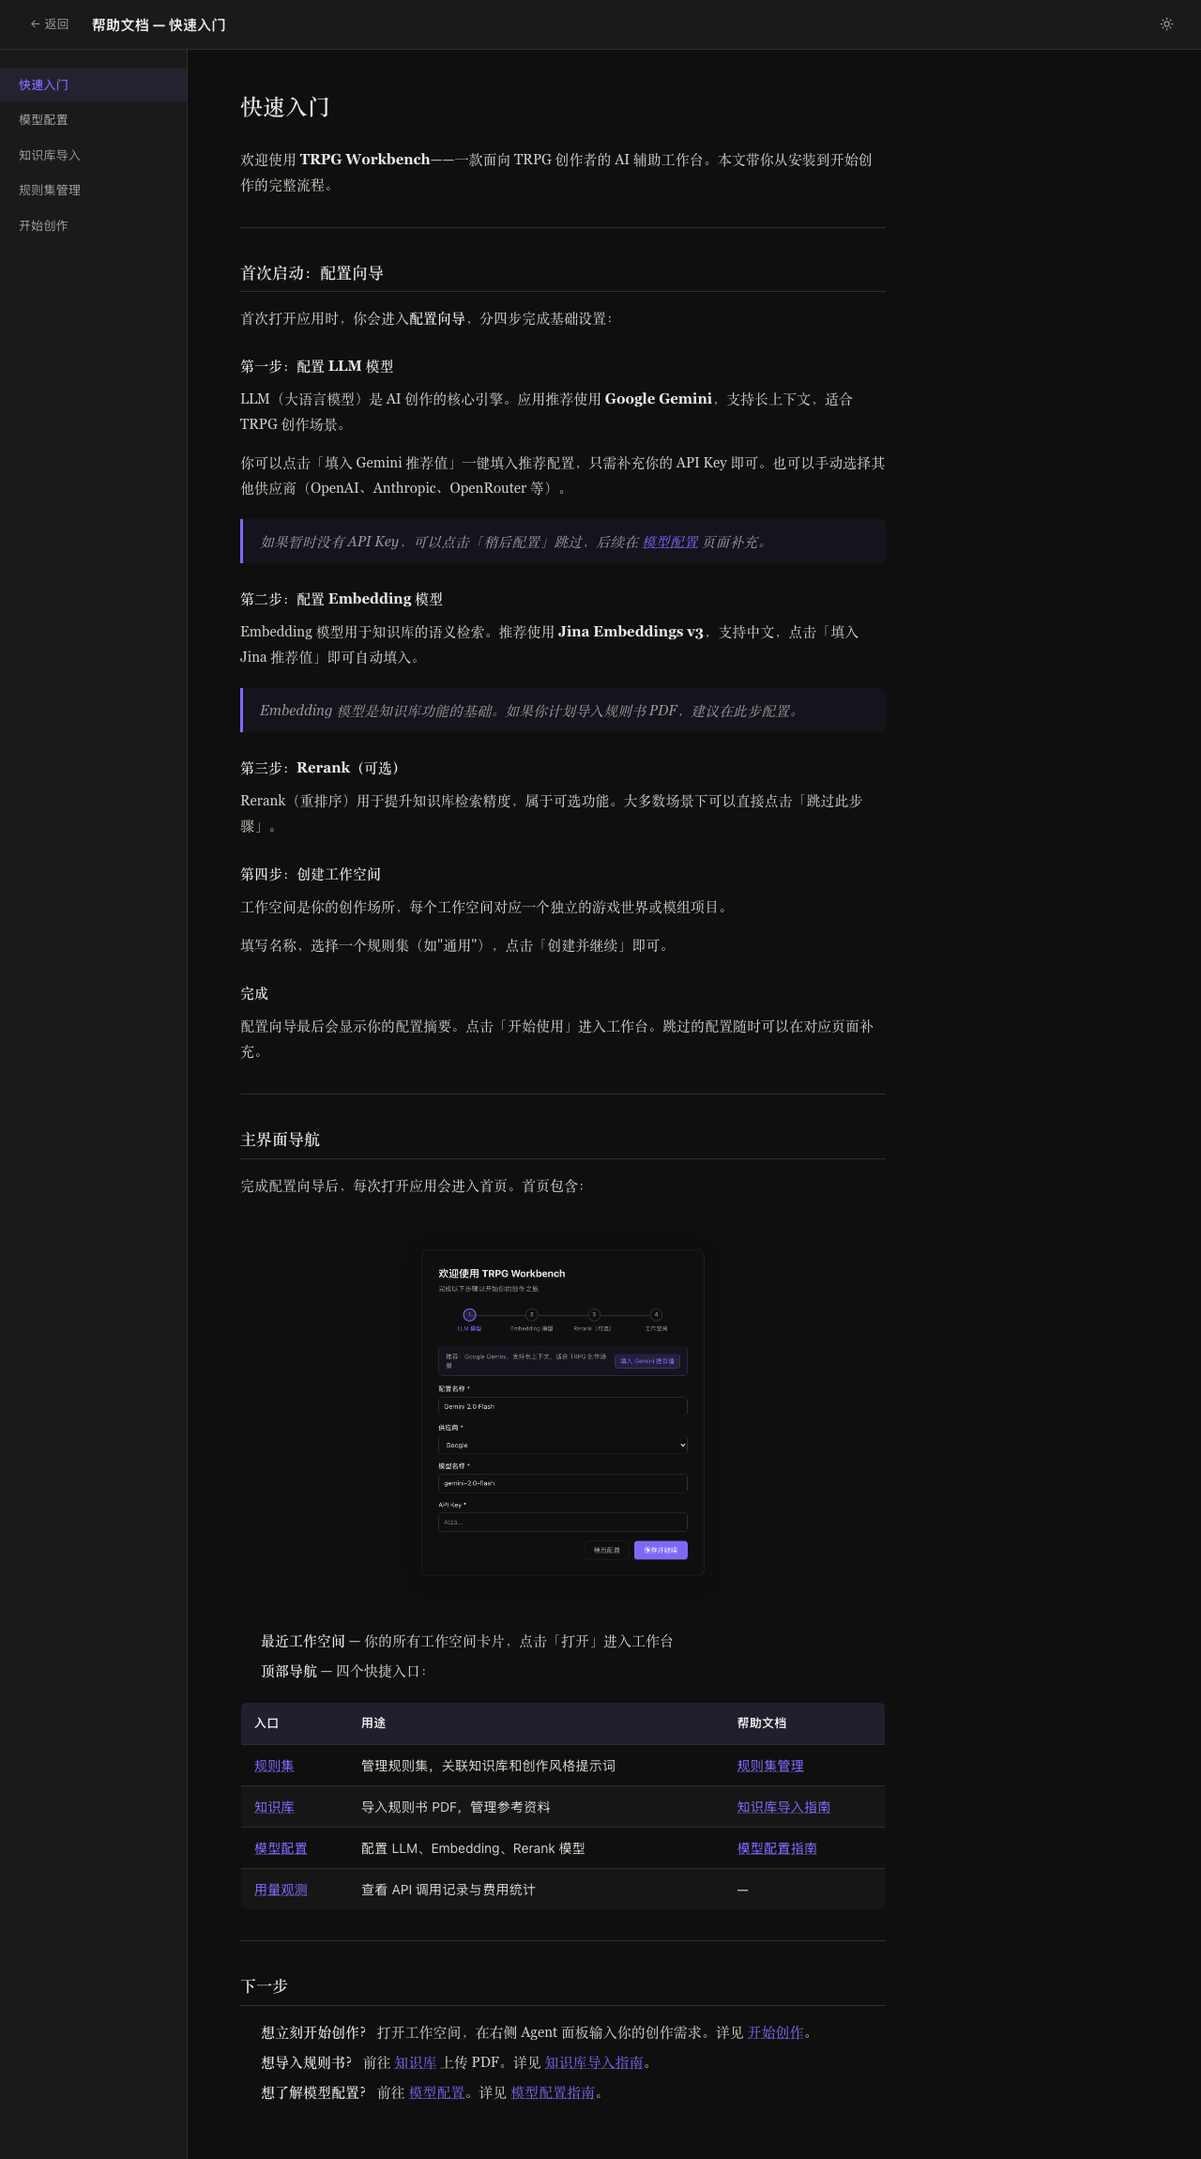
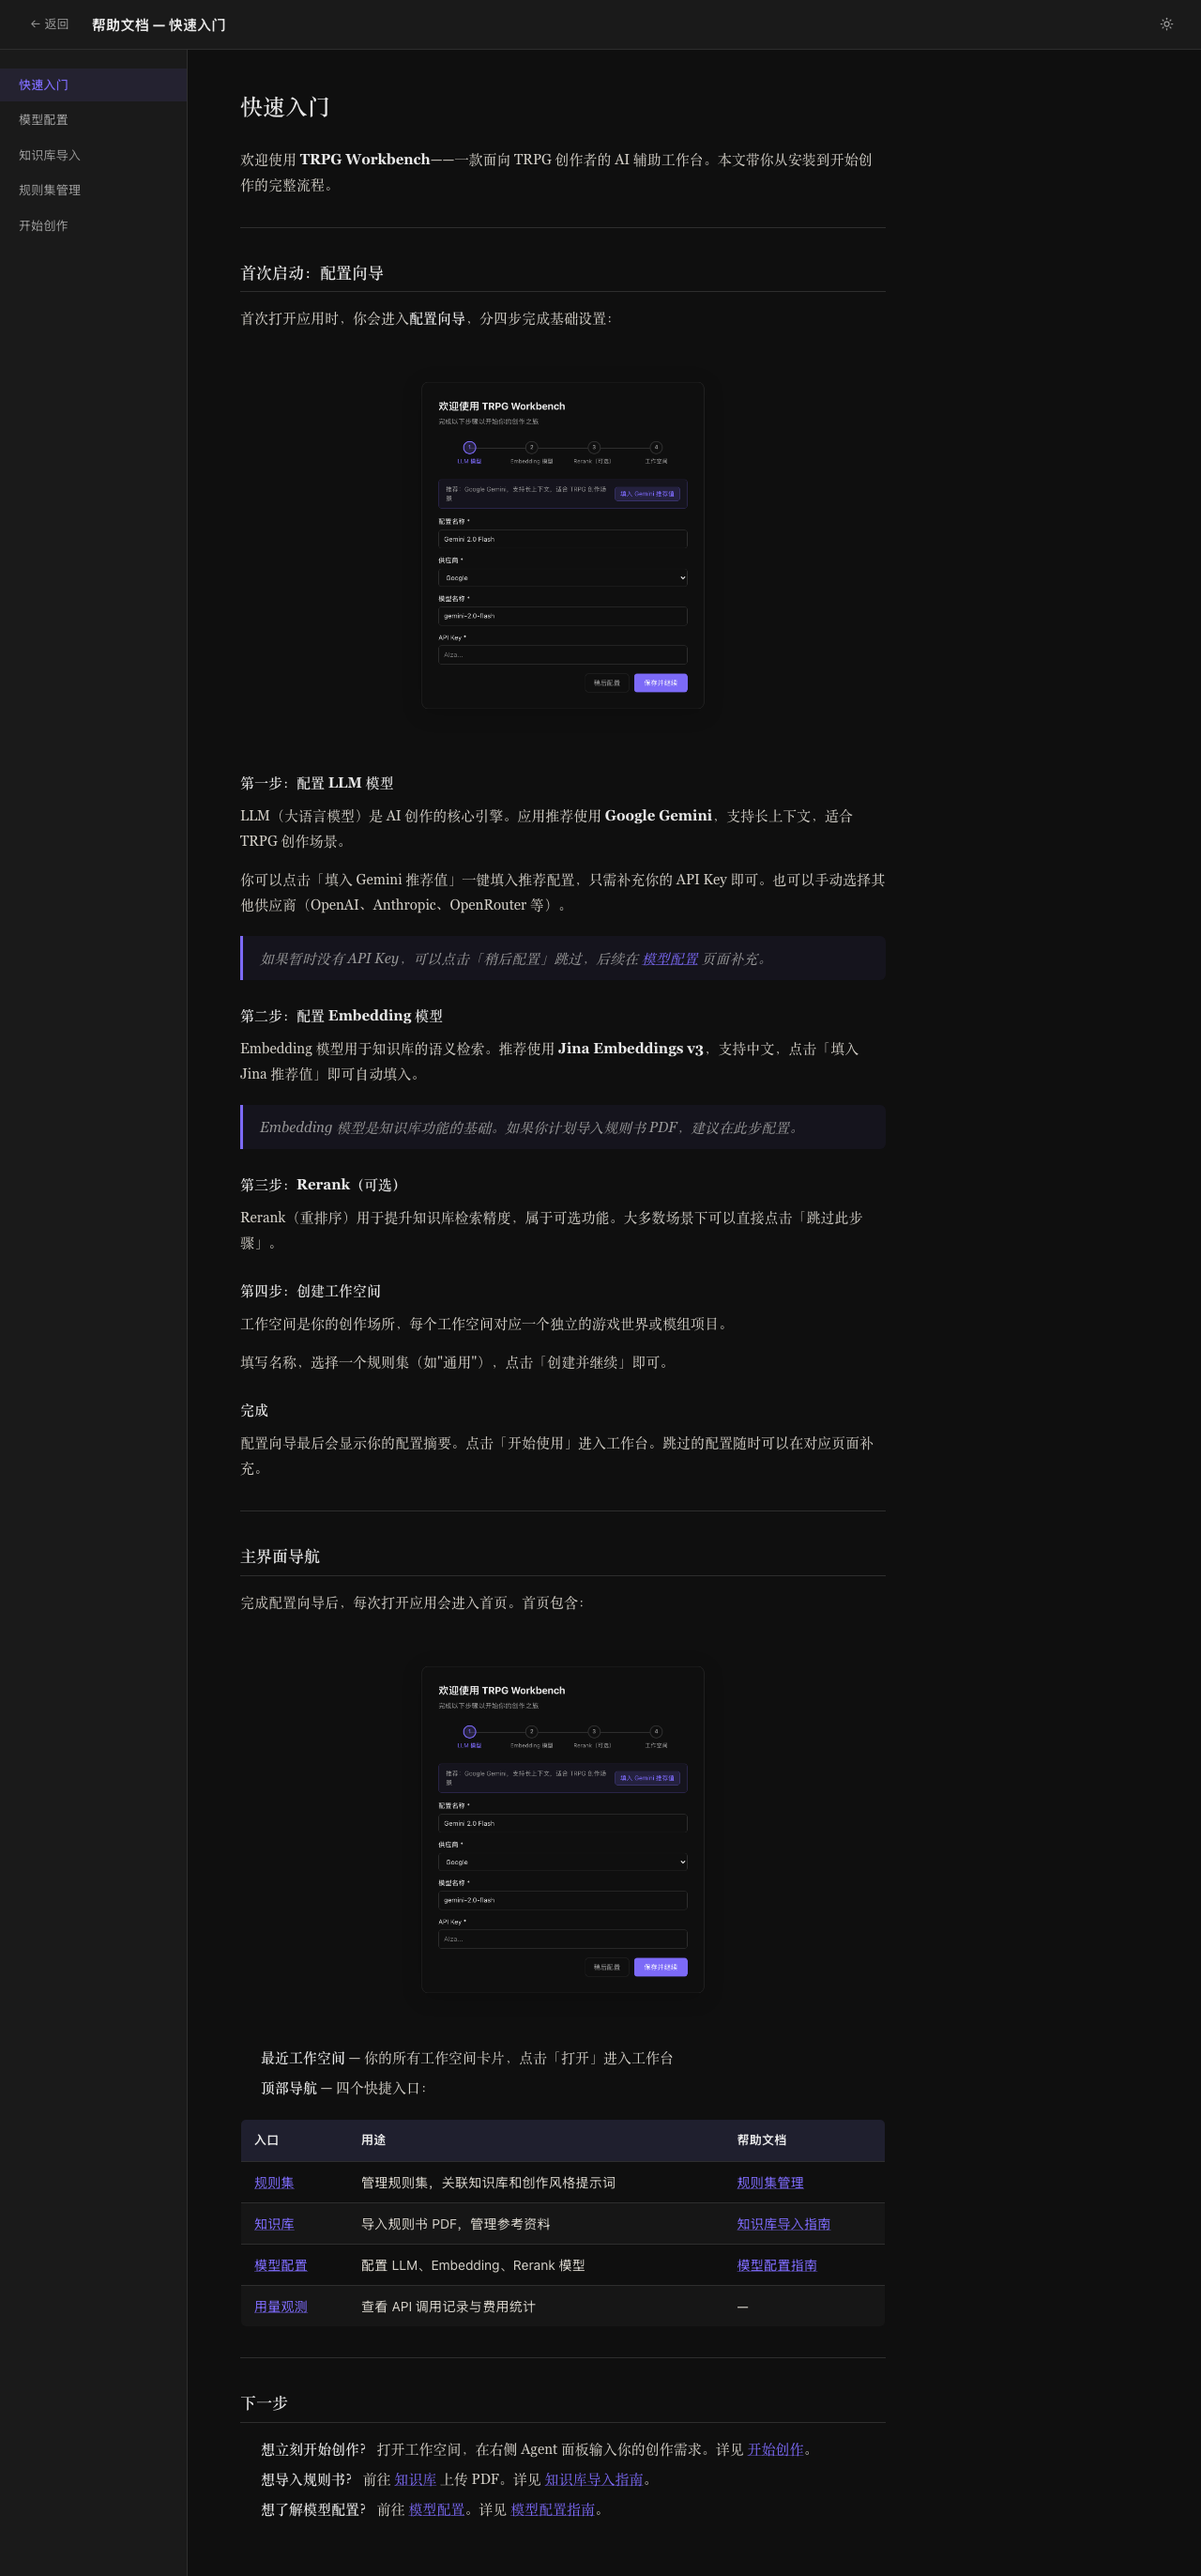
feat(M14): add --help-images mode to smoke script, refresh screenshots with correct home page, embed workspace screenshot

diff --git a/scripts/smoke/smoke_and_screenshot.py b/scripts/smoke/smoke_and_screenshot.py
@@ -1,27 +1,34 @@
 #!/usr/bin/env python3
 """
-smoke_and_screenshot.py — M9 A1 smoke test & screenshot script for trpg-workbench.
+smoke_and_screenshot.py — smoke test, screenshot & help-image generation for trpg-workbench.
 
 Usage (servers already running):
     apps/backend/.venv/bin/python scripts/smoke/smoke_and_screenshot.py
 
+Help-images mode (generate screenshots for in-app Help docs):
+    apps/backend/.venv/bin/python scripts/smoke/smoke_and_screenshot.py --help-images
+
 Usage (start servers via webapp-testing skill's with_server.py):
-    python <webapp-testing-skill-path>/scripts/with_server.py \
-      --server "cd apps/backend && .venv/bin/python server.py" --port 7821 \
-      --server "cd apps/desktop && pnpm dev" --port 5173 \
+    python <webapp-testing-skill-path>/scripts/with_server.py \\
+      --server "cd apps/backend && .venv/bin/python server.py" --port 7821 \\
+      --server "cd apps/desktop && pnpm dev" --port 5173 \\
       -- apps/backend/.venv/bin/python scripts/smoke/smoke_and_screenshot.py
 
 Options:
-    --frontend  Frontend base URL  (default: http://localhost:5173)
-    --backend   Backend base URL   (default: http://localhost:7821)
-    --out       Output base dir    (default: docs/ui-snapshots)
-    --date      Override date slug (default: today in Asia/Shanghai, YYYY-MM-DD)
+    --frontend     Frontend base URL  (default: http://localhost:5173)
+    --backend      Backend base URL   (default: http://localhost:7821)
+    --out          Output base dir    (default: docs/ui-snapshots)
+    --date         Override date slug (default: today in Asia/Shanghai, YYYY-MM-DD)
+    --help-images  Generate help doc screenshots into apps/desktop/public/help-images/
 
-Outputs (all relative to --out/<date>/):
+Outputs (smoke mode, all relative to --out/<date>/):
     screenshots/<slug>.png
     smoke-report.md
 And updates:
     docs/ui-snapshots/latest-manifest.json
+
+Outputs (--help-images mode):
+    apps/desktop/public/help-images/<name>.png
 """
 
 import argparse
@@ -40,6 +47,8 @@ def parse_args():
     p.add_argument("--out",      default="docs/ui-snapshots")
     p.add_argument("--date",     default=None,
                    help="Date slug YYYY-MM-DD (default: today UTC+8)")
+    p.add_argument("--help-images", action="store_true",
+                   help="Generate screenshots for in-app Help docs")
     return p.parse_args()
 
 
@@ -285,10 +294,116 @@ def write_latest_manifest(snapshots_root: Path, date_slug: str, run_at: str):
     )
 
 
+# ── Help-images mode ──────────────────────────────────────────────────────────
+
+# Pages to capture for help docs.
+# Each entry: (output_filename, route, description)
+# Special handling: "setup-wizard" is captured before skipping the wizard.
+HELP_IMAGE_PAGES = [
+    ("setup-wizard.png", "/setup",           "Setup Wizard (first launch)"),
+    ("home.png",         "/",                "Home page"),
+    ("model-config.png", "/settings/models", "Model config (tabs)"),
+    ("settings-llm.png", "/settings/models", "LLM config form"),
+    ("knowledge.png",    "/knowledge",       "Knowledge library"),
+    ("ruleset.png",      "/settings/rule-sets", "Rule set management"),
+    ("help-page.png",    "/help/getting-started", "Help page"),
+]
+
+
+def generate_help_images(frontend_url: str, backend_url: str):
+    """Capture screenshots for in-app Help docs.
+
+    Handles the Setup Wizard: if the app redirects to /setup on first visit,
+    captures the wizard page first, then skips it by toggling the
+    hasCompletedSetup flag in localStorage before capturing remaining pages.
+    """
+    from playwright.sync_api import sync_playwright
+
+    project_root = Path(__file__).resolve().parent.parent.parent
+    out_dir = project_root / "apps" / "desktop" / "public" / "help-images"
+    out_dir.mkdir(parents=True, exist_ok=True)
+
+    workspace_id = discover_workspace(backend_url)
+
+    with sync_playwright() as pw:
+        browser = pw.chromium.launch(headless=True)
+        try:
+            ctx = browser.new_context(viewport=VIEWPORT)
+            page = ctx.new_page()
+
+            # ── Step 1: check if we land on setup wizard ──
+            page.goto(frontend_url, timeout=NAV_TIMEOUT)
+            page.wait_for_load_state("networkidle", timeout=NETWORK_IDLE_TIMEOUT)
+            page.wait_for_timeout(1000)
+
+            if "/setup" in page.url:
+                # Capture the wizard
+                print("  ✓ setup-wizard.png  (first-launch wizard)")
+                page.screenshot(
+                    path=str(out_dir / "setup-wizard.png"), full_page=True
+                )
+
+                # Skip wizard by setting hasCompletedSetup in localStorage
+                page.evaluate("""() => {
+                    const raw = localStorage.getItem('settings-storage');
+                    if (raw) {
+                        const obj = JSON.parse(raw);
+                        if (obj.state) obj.state.hasCompletedSetup = true;
+                        localStorage.setItem('settings-storage', JSON.stringify(obj));
+                    }
+                }""")
+                page.goto(frontend_url, timeout=NAV_TIMEOUT)
+                page.wait_for_load_state("networkidle", timeout=NETWORK_IDLE_TIMEOUT)
+                page.wait_for_timeout(1000)
+            else:
+                print("  — setup wizard already completed, skipping wizard screenshot")
+
+            # ── Step 2: capture all non-wizard pages ──
+            for filename, route, description in HELP_IMAGE_PAGES:
+                if filename == "setup-wizard.png":
+                    continue  # already handled above
+                page.goto(frontend_url + route, timeout=NAV_TIMEOUT)
+                page.wait_for_load_state("networkidle", timeout=NETWORK_IDLE_TIMEOUT)
+                page.wait_for_timeout(1500)
+                page.screenshot(
+                    path=str(out_dir / filename), full_page=True
+                )
+                print(f"  ✓ {filename}  ({description})")
+
+            # ── Step 3: workspace page (if a workspace exists) ──
+            if workspace_id:
+                page.goto(
+                    frontend_url + f"/workspace/{workspace_id}",
+                    timeout=NAV_TIMEOUT,
+                )
+                page.wait_for_load_state("networkidle", timeout=NETWORK_IDLE_TIMEOUT)
+                page.wait_for_timeout(2000)
+                page.screenshot(
+                    path=str(out_dir / "workspace.png"), full_page=True
+                )
+                print("  ✓ workspace.png  (workbench three-panel)")
+            else:
+                print("  — no workspace found, skipping workspace screenshot")
+
+        finally:
+            browser.close()
+
+    print(f"\n[help-images] done → {out_dir}")
+
+
 # ── Entry point ───────────────────────────────────────────────────────────────
 
 def main():
     args = parse_args()
+
+    # ── Help-images mode ──
+    if args.help_images:
+        print("[help-images] Generating screenshots for in-app Help docs")
+        print(f"[help-images] frontend={args.frontend}  backend={args.backend}")
+        generate_help_images(args.frontend, args.backend)
+        return
+
+    # ── Smoke mode (default) ──
     date_slug = args.date or today_cst()
     run_at = run_at_iso()
 

diff --git a/.agents/skills/tauri-ui-smoke-and-docs/SKILL.md b/.agents/skills/tauri-ui-smoke-and-docs/SKILL.md
@@ -335,13 +335,47 @@ They are not native skill config — they control script behavior when invoked:
 | `--backend` | `http://localhost:7821` | Backend base URL |
 | `--out` | `docs/ui-snapshots` | Output base directory |
 | `--date` | today (UTC+8) | Override date slug |
-| `--mode` | `dom_plus_screenshot` | `dom_only` / `dom_plus_screenshot` / `vision_review` |
-| `--generate-help-drafts` | off | Generate help doc drafts after smoke |
-| `--sync-help` | off | Copy drafts to `apps/desktop/src/help/` (requires explicit flag) |
+| `--help-images` | off | Generate Help doc screenshots into `apps/desktop/public/help-images/` |
 
 Run `apps/backend/.venv/bin/python scripts/smoke/smoke_and_screenshot.py --help`
-to see the current parameter list; the table above reflects intended design,
-not guaranteed implementation state.
+to see the current parameter list.
+
+### `--help-images` mode
+
+This mode is separate from smoke testing. It generates screenshots
+specifically for the in-app Help documentation:
+
+```bash
+apps/backend/.venv/bin/python scripts/smoke/smoke_and_screenshot.py \
+  --help-images --frontend http://localhost:1420
+```
+
+**Behavior:**
+1. Opens the app; if redirected to `/setup` (first launch), captures
+   `setup-wizard.png`, then skips the wizard by toggling
+   `hasCompletedSetup` in localStorage
+2. Captures all key pages: home, model config, LLM form, knowledge,
+   rule sets, help page
+3. If a workspace exists, captures the three-panel workbench
+4. All screenshots go to `apps/desktop/public/help-images/`
+
+**Output files:**
+
+| File | Page |
+|---|---|
+| `setup-wizard.png` | Setup Wizard (first launch) |
+| `home.png` | Home page (after wizard) |
+| `model-config.png` | Model config tabs |
+| `settings-llm.png` | LLM config form |
+| `knowledge.png` | Knowledge library |
+| `ruleset.png` | Rule set management |
+| `help-page.png` | Help page |
+| `workspace.png` | Workbench (only if workspace exists) |
+
+**When to run:** After any milestone that changes UI layout or page
+structure, to update the Help doc screenshots. The screenshots are
+referenced from `apps/desktop/src/help/*.md` via
+`![description](/help-images/filename.png)`.
 
 ---
 

diff --git a/apps/desktop/src/help/start-creating.md b/apps/desktop/src/help/start-creating.md
@@ -8,6 +8,8 @@
 
 打开工作空间后，进入三栏工作台：
 
+![工作台三栏布局](/help-images/workspace.png)
+
 | 区域 | 说明 |
 |------|------|
 | **左侧 — 资产列表** | 按类型分组展示所有资产（NPC、场景、怪物、地点等），支持搜索过滤 |
